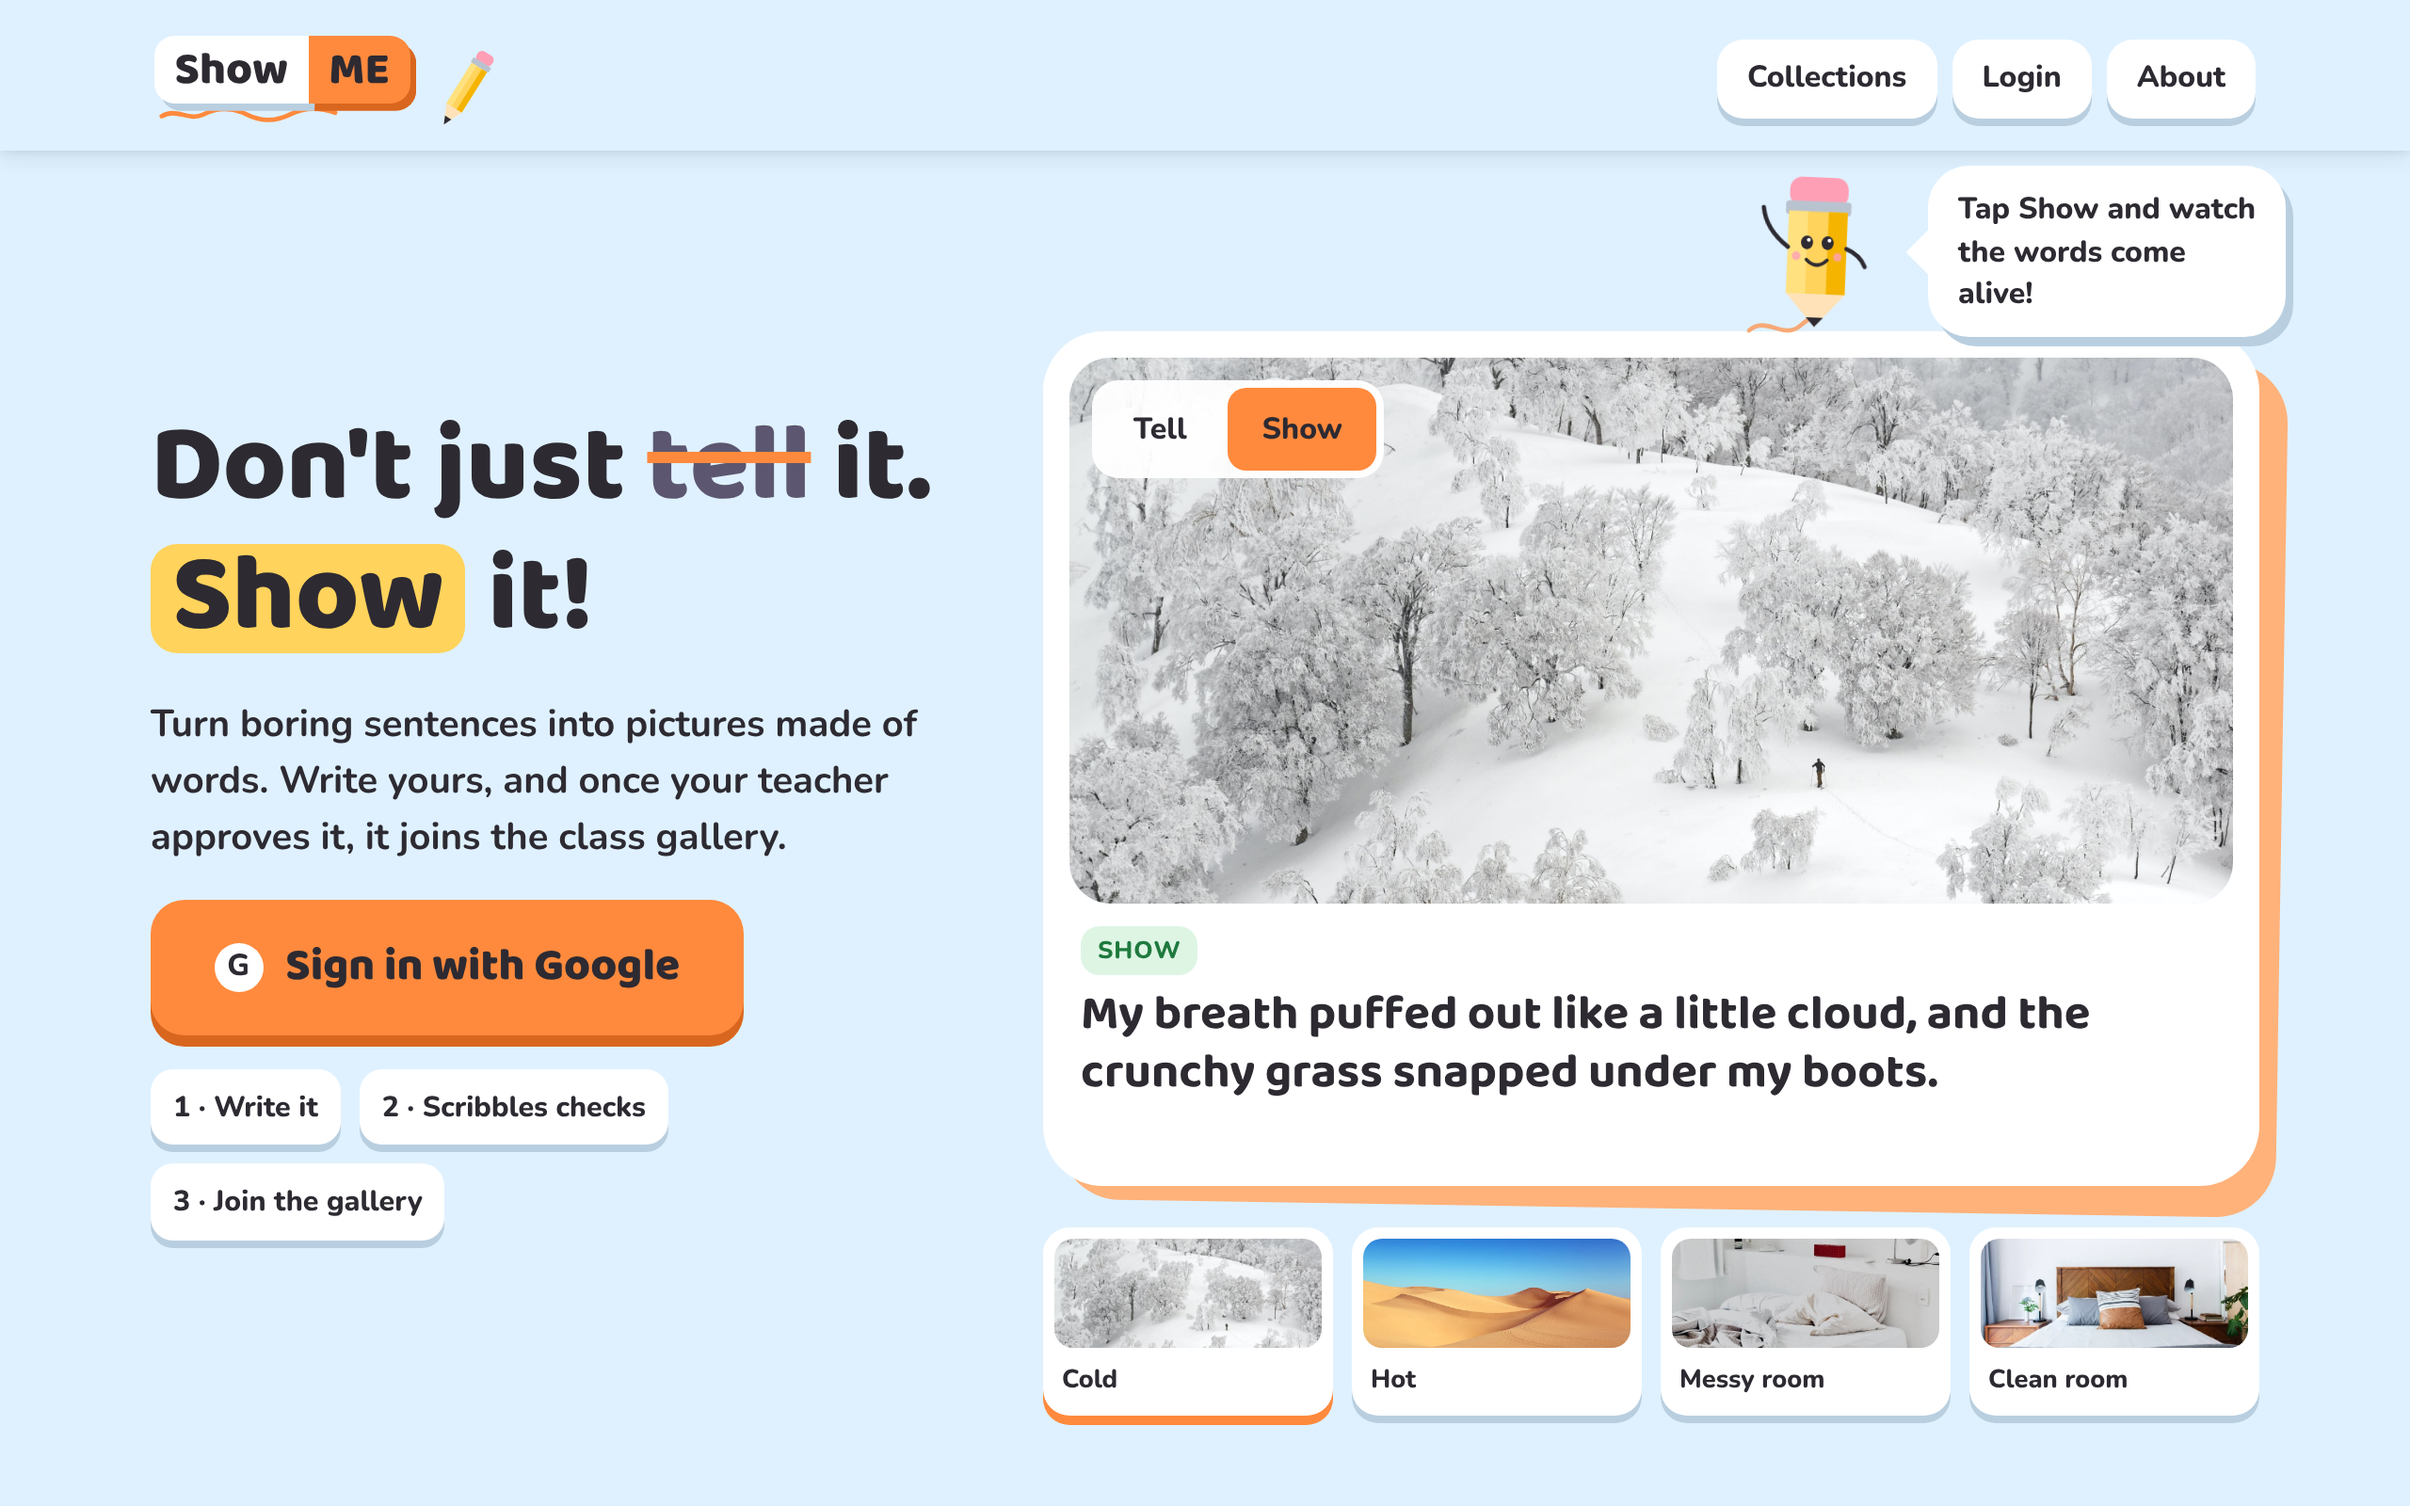
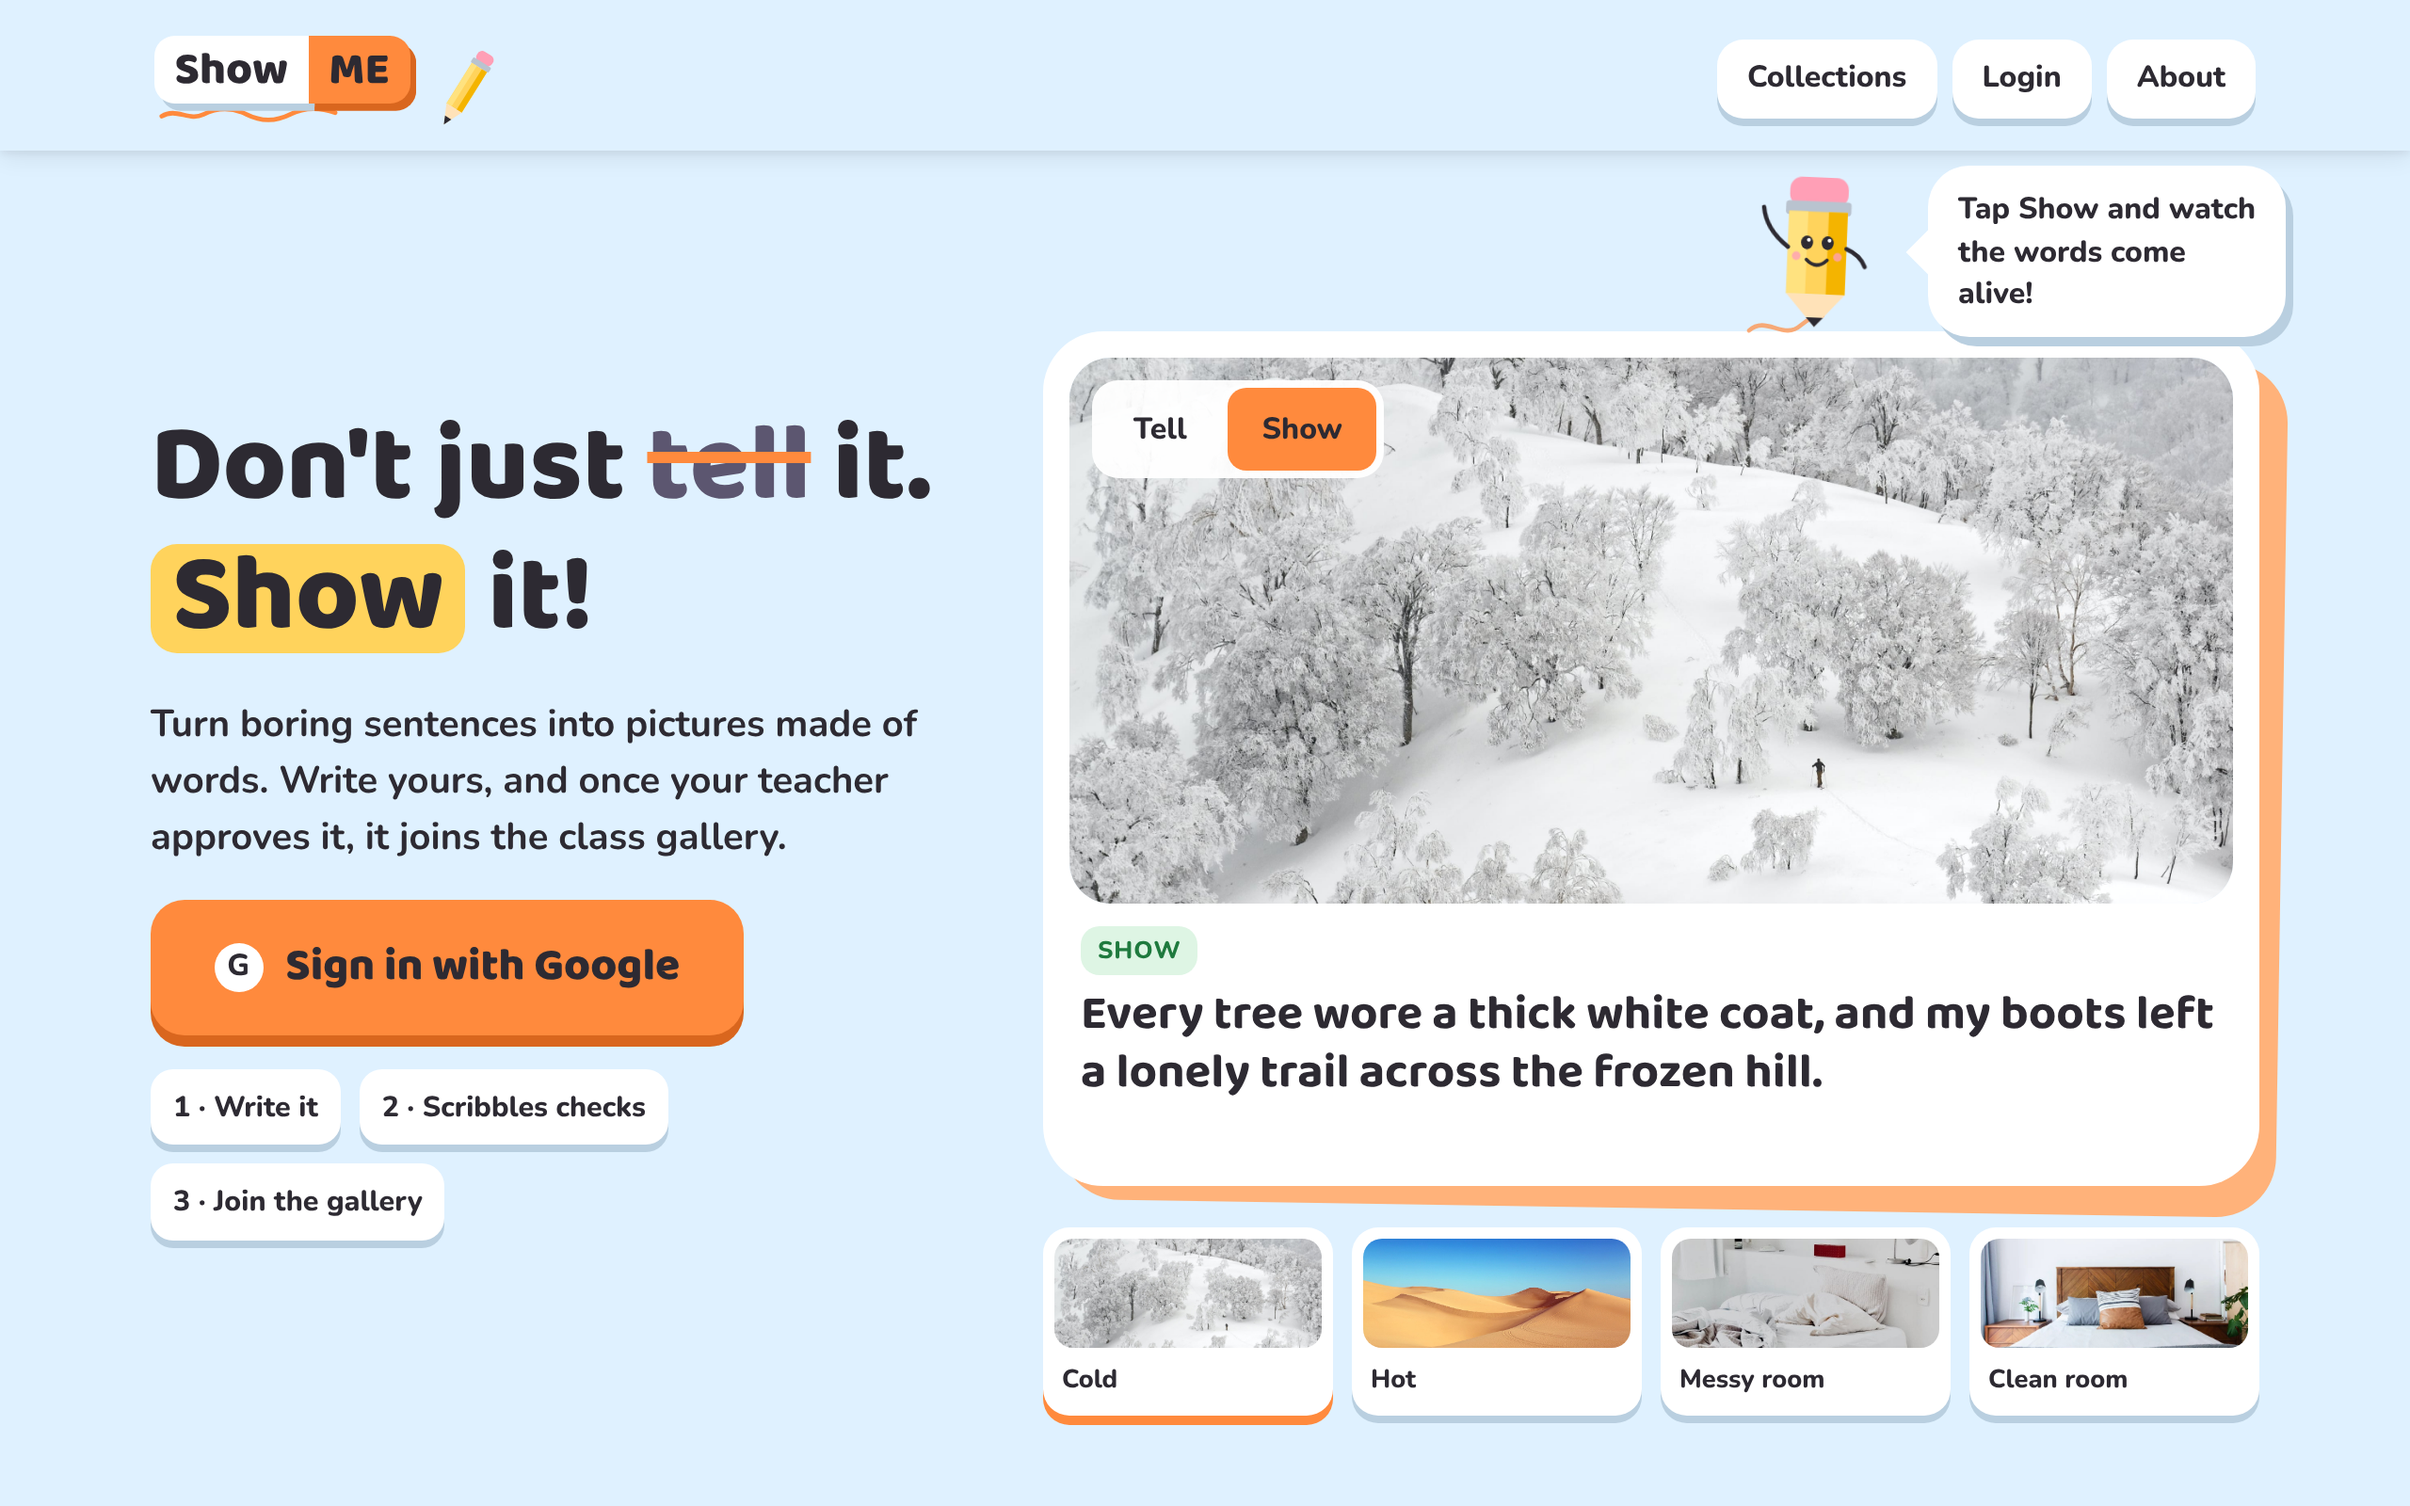
Welcome examples: Show sentences that describe their photos
The Show sentences came from the design, whose photos differ from the
app's (ice cream on a dune, pizza boxes on a tidy unmade bed). The owner
picked a sentence for each photo:

- Cold: a snowy hill of frosted trees and one hiker's trail.
- Hot: sand dunes under a cloudless sky.
- Messy room: an unmade bed, its blanket sliding off.
- Clean room: a made bed with its pillows in a row.

The photos' descriptions for screen readers match too. The narrowest
phones get a taller sentence box, so the card keeps one height across
all the examples. README screenshot updated.

Claude-Session: https://claude.ai/code/session_0151A3A5Upb6Vf5ZEwtbdkTz

Changed region(s): [[0.4375, 0.6562, 0.9375, 0.75]]

diff --git a/client/src/tellData.ts b/client/src/tellData.ts
@@ -1,4 +1,5 @@
-// The Welcome screen's examples: fixed, they don't change.
+// The Welcome screen's examples: fixed, they don't change. Each Show
+// sentence describes what its photo shows; change them together.
 // picture: the photo; phonePicture: its middle, for phones held upright (see
 // phonePhotoMedia in config.ts). Replacing a photo? Replace both.
 
@@ -18,36 +19,36 @@ const tell: Slide[] = [
   {
     key: 1,
     tell: "It is cold outside.",
-    show: "My breath puffed out like a little cloud, and the crunchy grass snapped under my boots.",
+    show: "Every tree wore a thick white coat, and my boots left a lonely trail across the frozen hill.",
     short: "Cold",
-    alt: "Someone walking through snowy trees",
+    alt: "A lone hiker crossing a snowy hill of frosted trees",
     picture: "/images/winter.jpg",
     phonePicture: "/images/winter-phone.jpg",
   },
   {
     key: 2,
     tell: "It is hot outside.",
-    show: "The sun pressed on my shoulders like a heavy blanket, and my ice cream dripped faster than I could lick it.",
+    show: "Golden sand stretched to the sky with nowhere to hide, and every step burned through my shoes.",
     short: "Hot",
-    alt: "A hot sunny day",
+    alt: "Sand dunes under a cloudless blue sky",
     picture: "/images/summer.jpg",
     phonePicture: "/images/summer-phone.jpg",
   },
   {
     key: 3,
     tell: "His room is messy.",
-    show: "Socks hid under pizza boxes, and the floor crunched with every step.",
+    show: "His blanket had tumbled halfway to the floor, and the pillows looked like they had lost a pillow fight.",
     short: "Messy room",
-    alt: "A very messy room",
+    alt: "An unmade bed with a crumpled blanket sliding off",
     picture: "/images/messy.jpg",
     phonePicture: "/images/messy-phone.jpg",
   },
   {
     key: 4,
     tell: "Her room is clean.",
-    show: "The floor shone so brightly that I could see my own face smiling back at me.",
+    show: "Every pillow stood in a neat row, and her blanket lay so smooth that not one wrinkle dared to show.",
     short: "Clean room",
-    alt: "A very clean room",
+    alt: "A neatly made bed with its pillows in a row",
     picture: "/images/clean.jpg",
     phonePicture: "/images/clean-phone.jpg",
   },

diff --git a/client/src/theme/paper.css b/client/src/theme/paper.css
@@ -617,6 +617,13 @@ h3,
   gap: 6px;
 }
 
+/* The narrowest phones wrap the sentences onto more lines */
+@media (max-width: 359px) {
+  .paper-welcome__words {
+    min-height: 200px;
+  }
+}
+
 .paper-welcome__sentence {
   margin: 0;
   font-family: var(--paper-font-display);
